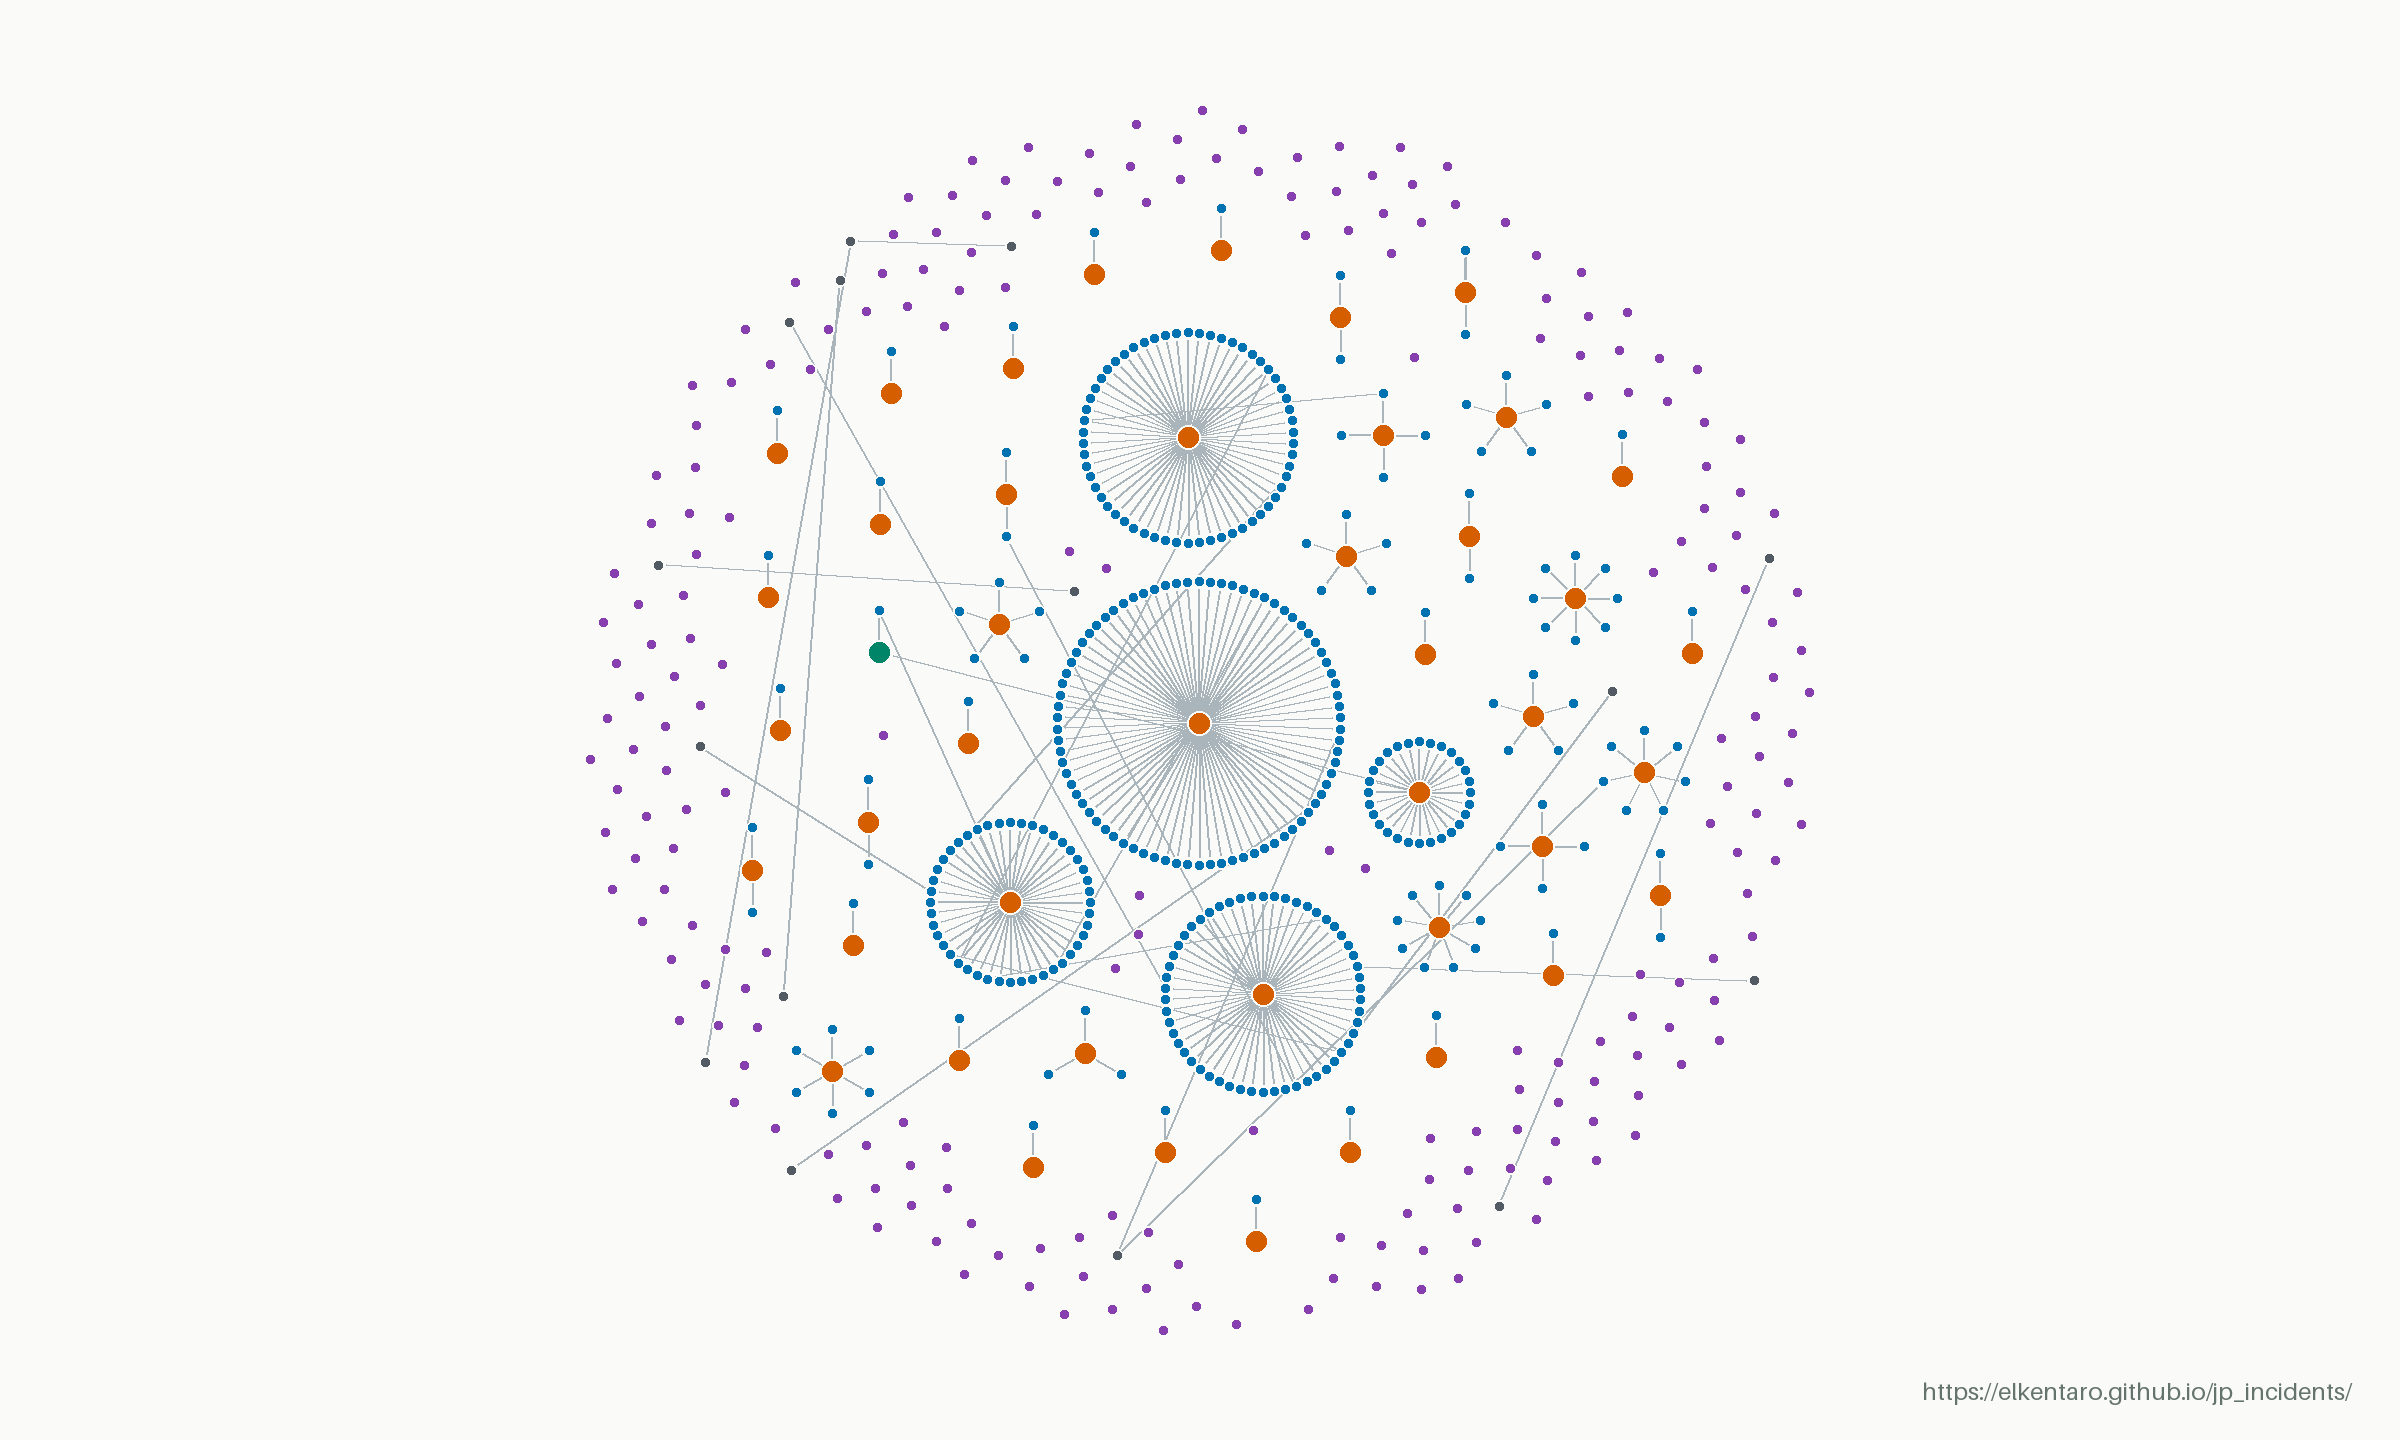
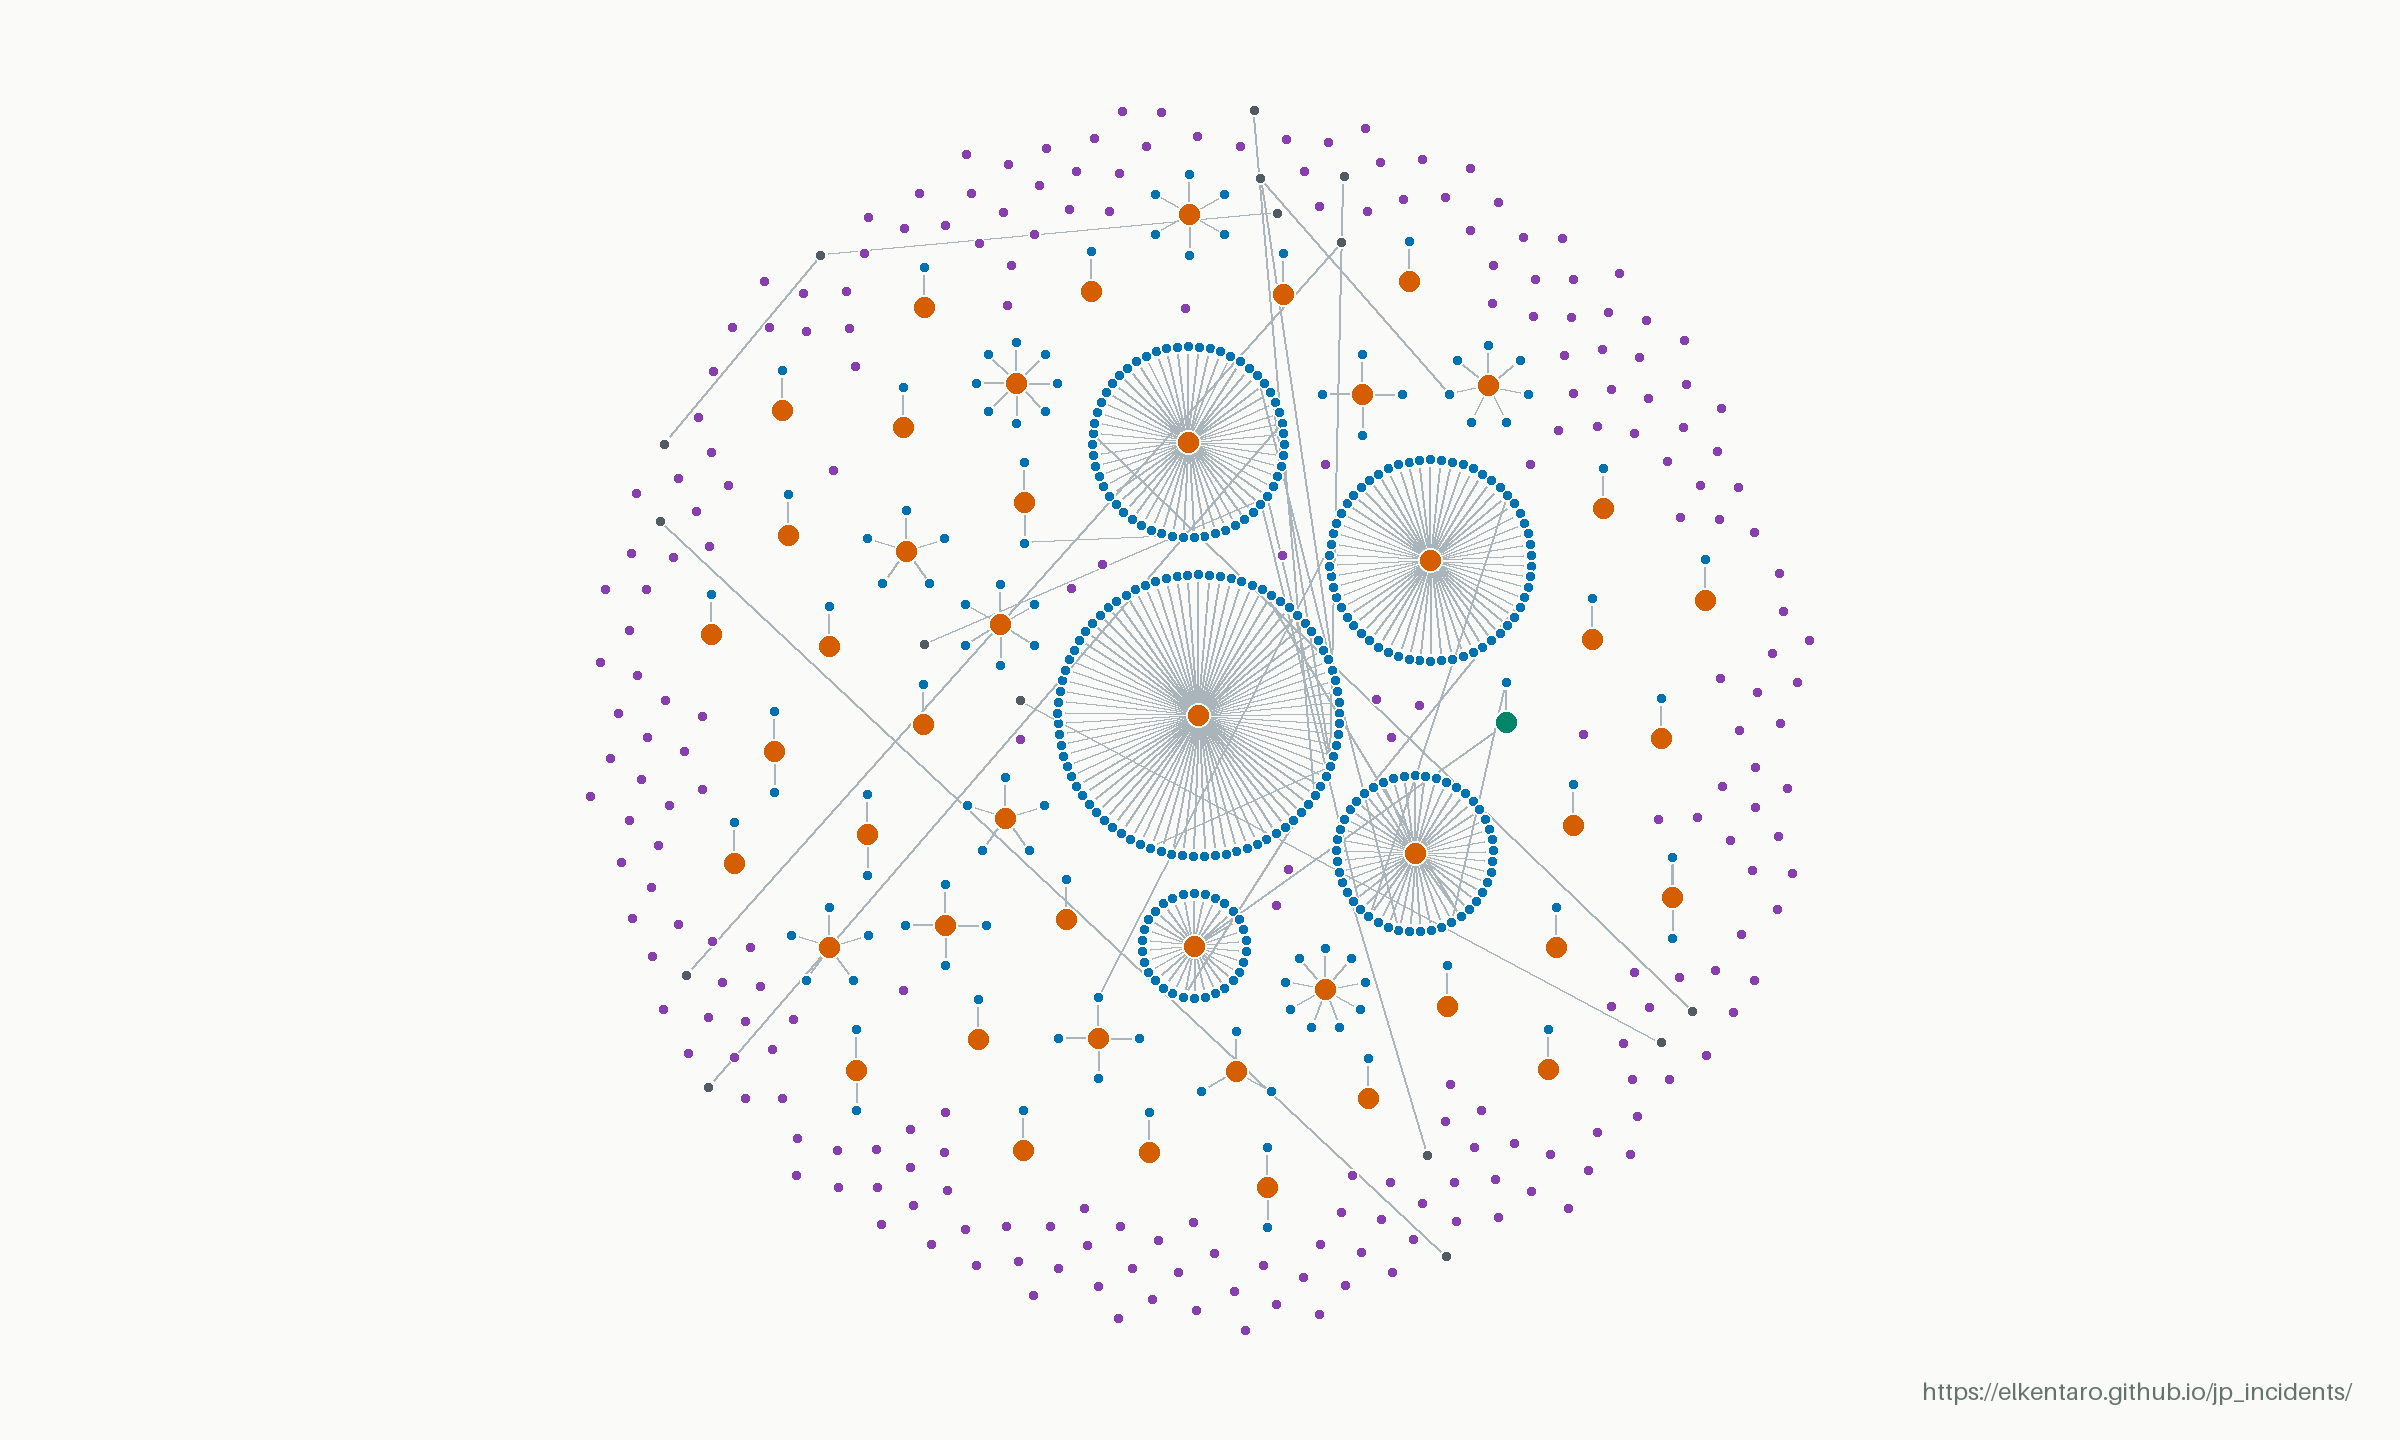
Update incident data (2026-10-31 04:15 UTC)

diff --git a/linkage.html b/linkage.html
@@ -31,23 +31,23 @@
       <p class="map-note" data-copy="explanation">Each dot is an incident. Solid lines show recorded relationships; node colors distinguish upstream, downstream and standalone incidents. Positions show connections, not geography or severity.</p>
     </section>
     <dl class="map-stats">
-      <div><dt data-copy="total">Incidents in snapshot</dt><dd>631</dd></div>
-      <div><dt data-copy="linked">With recorded connections</dt><dd>417</dd></div>
-      <div><dt data-copy="links">Recorded connections</dt><dd>380</dd></div>
-      <div><dt data-copy="networks">Connected networks</dt><dd>40</dd></div>
+      <div><dt data-copy="total">Incidents in snapshot</dt><dd>670</dd></div>
+      <div><dt data-copy="linked">With recorded connections</dt><dd>436</dd></div>
+      <div><dt data-copy="links">Recorded connections</dt><dd>400</dd></div>
+      <div><dt data-copy="networks">Connected networks</dt><dd>44</dd></div>
     </dl>
     <figure class="map-figure">
       <div class="map-image">
         <img src="data/linkage-map.png" width="2400" height="1440" alt="Anonymized incident map. Orange upstream hubs connect to blue downstream incidents; purple standalone incidents appear throughout the same map without connecting lines." data-copy-alt="alt">
       </div>
       <figcaption>
-        <div class="map-caption-meta"><span><span data-copy="updated">Last updated</span>: <time datetime="2026-10-30T03:15:55.336388+00:00">2026-10-30 03:15 UTC</time></span><a href="data/linkage-map.png" target="_blank" rel="noopener" data-copy="open">Open full-resolution image ↗</a></div>
+        <div class="map-caption-meta"><span><span data-copy="updated">Last updated</span>: <time datetime="2026-10-31T04:15:31.482134+00:00">2026-10-31 04:15 UTC</time></span><a href="data/linkage-map.png" target="_blank" rel="noopener" data-copy="open">Open full-resolution image ↗</a></div>
         <div class="map-key-section">
           <strong id="map-key-title" data-copy="key">Key</strong>
           <ul class="map-key" aria-labelledby="map-key-title">
             <li><span class="key-dot upstream" aria-hidden="true"></span><span data-copy="keyUpstream">Upstream</span></li>
             <li><span class="key-dot downstream" aria-hidden="true"></span><span data-copy="keyDownstream">Downstream</span></li>
-            <li><span class="key-dot standalone" aria-hidden="true"></span><span data-copy="keyStandalone">Standalone</span><span>(214)</span></li>
+            <li><span class="key-dot standalone" aria-hidden="true"></span><span data-copy="keyStandalone">Standalone</span><span>(234)</span></li>
             <li><span class="key-dot both" aria-hidden="true"></span><span data-copy="keyBoth">Both roles</span></li>
             <li><span class="key-dot related" aria-hidden="true"></span><span data-copy="keyRelated">Other related</span></li>
             <li><span class="key-line" aria-hidden="true"></span><span data-copy="keyRelationship">Recorded relationship</span></li>
@@ -60,7 +60,7 @@
       <section><h2 data-copy="readingTitle">Reading the map</h2><p data-copy="reading">Orange marks upstream incidents, blue downstream incidents, and purple standalone incidents with no recorded connection. Teal marks incidents with both upstream and downstream roles; charcoal marks other related incidents. A missing connection does not establish that two incidents are unrelated.</p></section>
       <section><h2 data-copy="snapshotTitle">About this snapshot</h2><p data-copy="snapshot">The static image is refreshed every 24 hours from the public incident index. Names, incident IDs, source links and incident dates are omitted; the connection pattern is retained. It is an overview of recorded relationships, not a complete map of cyber incidents in Japan.</p></section>
     </div>
-    <p class="map-source"><span data-copy="sourceUpdated">Source data updated</span>: <time datetime="2026-10-30T03:15:54+00:00">2026-10-30T03:15:54+00:00</time> · <a href="./" data-copy="browse">Browse the incident index</a></p>
+    <p class="map-source"><span data-copy="sourceUpdated">Source data updated</span>: <time datetime="2026-10-31T04:15:30+00:00">2026-10-31T04:15:30+00:00</time> · <a href="./" data-copy="browse">Browse the incident index</a></p>
   </main>
   <footer><div class="shell footer-inner"><p data-copy="footer">Public reports. Recorded relationships. An anonymized overview.</p><a href="./" data-copy="back">Back to incidents</a></div></footer>
   <script src="linkage.js" defer></script>
